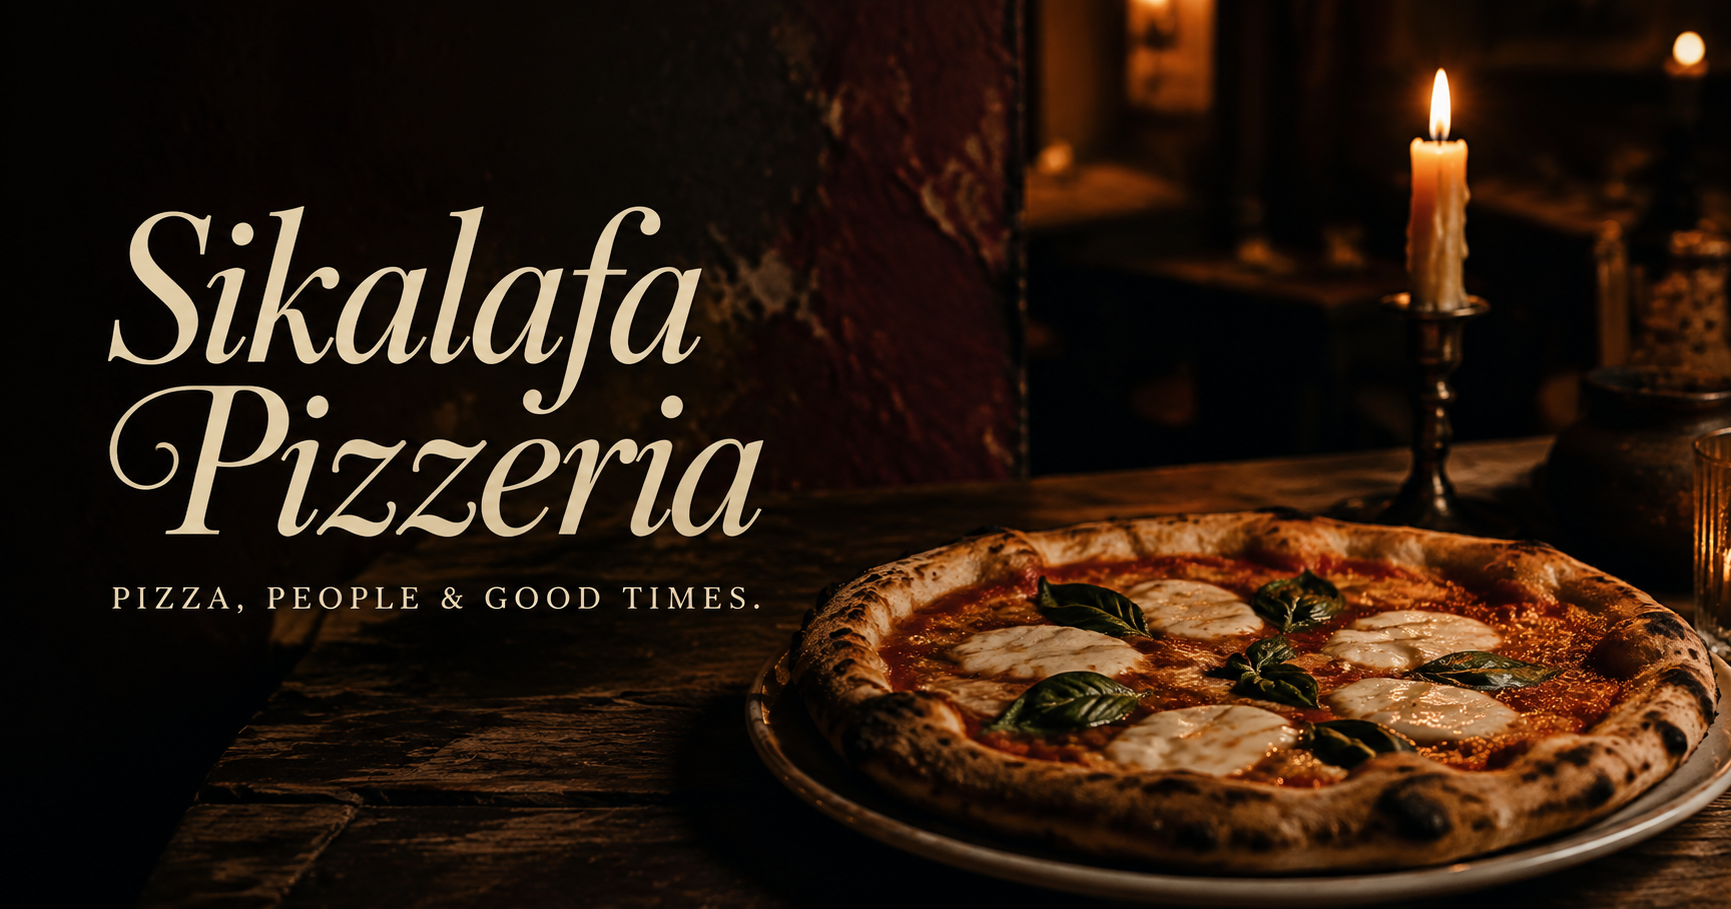
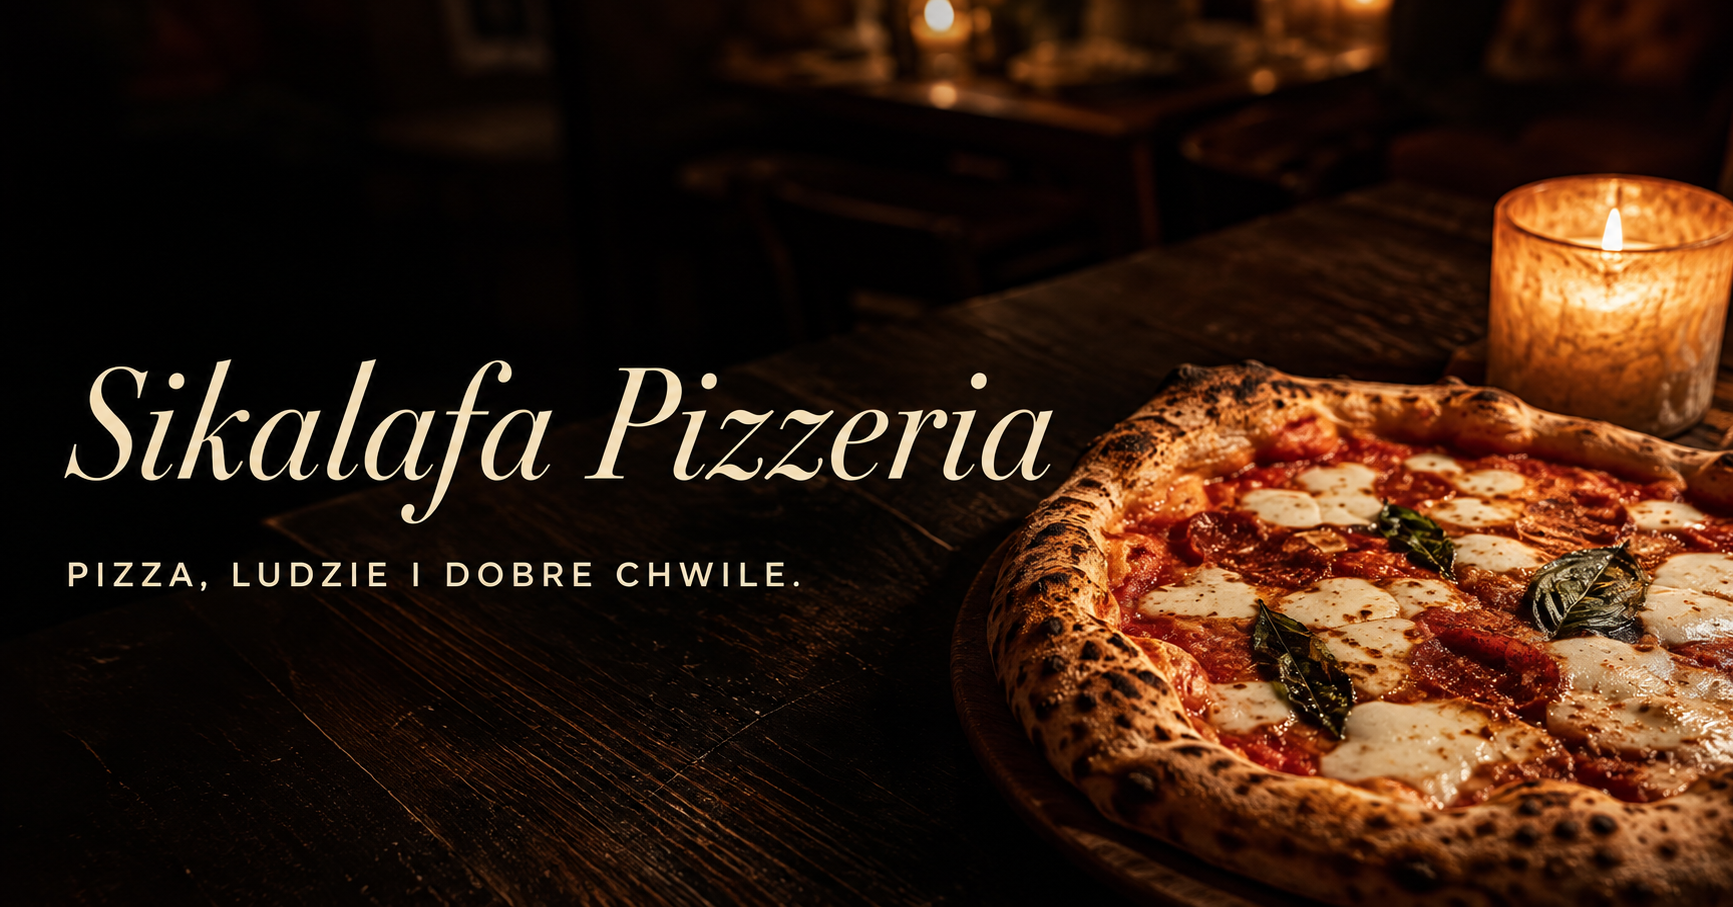
Translate Sikalafa site to Polish

diff --git a/app/page.tsx b/app/page.tsx
@@ -4,10 +4,10 @@ import { ImageReveal, Reveal } from '@/components/motion-primitives';
 import { SiteHeader } from '@/components/site-header';
 
 const pizzas = [
-  { name: 'Margherita Sikalafa', description: 'San Marzano tomato, fior di latte, basil, olive oil', price: '38' },
-  { name: 'Bosco', description: 'Fior di latte, mushrooms, artichoke, roasted pepper, rocket', price: '47' },
-  { name: 'Piccante', description: 'Tomato, spicy salami, nduja, red onion, honey', price: '49' },
-  { name: 'Bianca', description: 'Ricotta, fior di latte, potato, rosemary, pecorino', price: '46' },
+  { name: 'Margherita Sikalafa', description: 'Pomidory San Marzano, fior di latte, bazylia, oliwa', price: '38' },
+  { name: 'Bosco', description: 'Fior di latte, pieczarki, karczochy, pieczona papryka, rukola', price: '47' },
+  { name: 'Piccante', description: 'Pomidory, pikantne salami, nduja, czerwona cebula, miód', price: '49' },
+  { name: 'Bianca', description: 'Ricotta, fior di latte, ziemniaki, rozmaryn, pecorino', price: '46' },
 ];
 
 export default function Home() {
@@ -17,47 +17,47 @@ export default function Home() {
 
       <section className="hero" aria-labelledby="hero-title">
         <div className="hero-image">
-          <Image src="/sikalafa-hero.png" alt="Sikalafa pizzeria glowing warmly at night" fill priority sizes="100vw" />
+          <Image src="/sikalafa-hero.png" alt="Pizzeria Sikalafa rozświetlona ciepłym światłem nocą" fill priority sizes="100vw" />
         </div>
         <div className="hero-shade" />
         <div className="hero-copy">
-          <p className="eyebrow">Wrocław · pizza, wine &amp; good company</p>
-          <h1 id="hero-title">Come for pizza.<br /><em>Stay for a while.</em></h1>
-          <p className="hero-intro">A little house with a big heart — handmade pizza, candlelit tables and evenings that take their time.</p>
+          <p className="eyebrow">Wrocław · pizza, wino i dobre towarzystwo</p>
+          <h1 id="hero-title">Przyjdź na pizzę.<br /><em>Zostań na dłużej.</em></h1>
+          <p className="hero-intro">Mały lokal z wielkim sercem — ręcznie robiona pizza, stoliki w blasku świec i wieczory, którym się nie spieszy.</p>
           <div className="hero-actions">
-            <a className="text-link" href="#menu">See the menu <ArrowUpRight aria-hidden="true" /></a>
-            <a className="text-link" href="#reservations">Reserve a table <ArrowUpRight aria-hidden="true" /></a>
+            <a className="text-link" href="#menu">Zobacz menu <ArrowUpRight aria-hidden="true" /></a>
+            <a className="text-link" href="#reservations">Zarezerwuj stolik <ArrowUpRight aria-hidden="true" /></a>
           </div>
         </div>
-        <p className="hero-note" aria-hidden="true">No rush.<br />You&apos;re home.</p>
-        <a className="scroll-mark" href="#story" aria-label="Scroll to our story"><span>Scroll</span><i /><ArrowDown aria-hidden="true" /></a>
+        <p className="hero-note" aria-hidden="true">Bez pośpiechu.<br />Czuj się jak u siebie.</p>
+        <a className="scroll-mark" href="#story" aria-label="Przejdź do naszej historii"><span>Przewiń</span><i /><ArrowDown aria-hidden="true" /></a>
       </section>
 
       <section className="story section-shell" id="story">
         <Reveal className="story-heading">
-          <p className="section-kicker">01 · Our story</p>
-          <h2>It started with<br />a table <em>for friends.</em></h2>
+          <p className="section-kicker">01 · Nasza historia</p>
+          <h2>Zaczęło się od<br />stołu <em>dla przyjaciół.</em></h2>
         </Reveal>
         <Reveal className="story-copy">
-          <p className="lead-copy">Sikalafa was never meant to feel like a restaurant. It&apos;s a place to settle in, share a pizza and forget to check the time.</p>
-          <p>Everything here is personal: the dough we tend to each day, the records behind the bar, the plants finding their way across old shelves. The room grew slowly, one found chair and one story at a time.</p>
-          <p className="hand-note">Made by hand.<br />Best shared together.</p>
+          <p className="lead-copy">Sikalafa nigdy nie miała być zwykłą restauracją. To miejsce, w którym można usiąść wygodnie, dzielić się pizzą i zapomnieć o czasie.</p>
+          <p>Tu wszystko jest osobiste: ciasto, o które dbamy każdego dnia, płyty za barem i rośliny oplatające stare półki. Lokal powstawał powoli — jedno znalezione krzesło i jedna historia po drugiej.</p>
+          <p className="hand-note">Robione ręcznie.<br />Najlepiej smakuje razem.</p>
         </Reveal>
       </section>
 
       <section className="pizza-feature" id="pizza">
-        <ImageReveal src="/sikalafa-pizza.png" alt="Fresh Sikalafa pizza served with wine by candlelight" className="pizza-photo" position="63% center" />
+        <ImageReveal src="/sikalafa-pizza.png" alt="Świeża pizza Sikalafa podana z winem przy blasku świecy" className="pizza-photo" position="63% center" />
         <div className="pizza-panel">
           <Reveal>
-            <p className="section-kicker">02 · The pizza</p>
-            <h2>Simple things,<br /><em>done properly.</em></h2>
-            <p>Long-fermented dough. A blistered, airy crust. Thoughtful ingredients and combinations that change with the season.</p>
+            <p className="section-kicker">02 · Pizza</p>
+            <h2>Proste rzeczy,<br /><em>zrobione jak należy.</em></h2>
+            <p>Długo dojrzewające ciasto. Lekki, wyrośnięty rant. Starannie dobrane składniki i połączenia, które zmieniają się wraz z porami roku.</p>
             <dl className="pizza-facts">
-              <div><dt>48h</dt><dd>slow fermentation</dd></div>
-              <div><dt>450°</dt><dd>a very hot oven</dd></div>
-              <div><dt>100%</dt><dd>made by us</dd></div>
+              <div><dt>48h</dt><dd>powolnej fermentacji</dd></div>
+              <div><dt>450°</dt><dd>bardzo gorący piec</dd></div>
+              <div><dt>100%</dt><dd>robimy na miejscu</dd></div>
             </dl>
-            <a className="text-link dark-link" href="#menu">Explore our favourites <ArrowUpRight aria-hidden="true" /></a>
+            <a className="text-link dark-link" href="#menu">Poznaj nasze ulubione <ArrowUpRight aria-hidden="true" /></a>
           </Reveal>
         </div>
       </section>
@@ -65,20 +65,20 @@ export default function Home() {
       <section className="place" id="place">
         <div className="place-copy section-shell">
           <Reveal>
-            <p className="section-kicker">03 · The place</p>
-            <h2>A room with<br /><em>its own rhythm.</em></h2>
-            <p>Low lights, well-worn wood and music playing just loud enough. Every corner has something to discover, but the best part is always the people around your table.</p>
+            <p className="section-kicker">03 · Lokal</p>
+            <h2>Miejsce z<br /><em>własnym rytmem.</em></h2>
+            <p>Przygaszone światło, drewno z historią i muzyka grająca w sam raz. W każdym kącie można coś odkryć, ale najważniejsi są zawsze ludzie przy Twoim stole.</p>
           </Reveal>
         </div>
-        <ImageReveal src="/sikalafa-interior.png" alt="The warm, plant-filled interior of Sikalafa" className="place-photo" />
-        <p className="place-caption">Pull up a chair<br />and make it yours.</p>
+        <ImageReveal src="/sikalafa-interior.png" alt="Ciepłe, pełne roślin wnętrze Sikalafa" className="place-photo" />
+        <p className="place-caption">Przysuń krzesło.<br />Rozgość się.</p>
       </section>
 
       <section className="menu-section section-shell" id="menu">
         <Reveal className="menu-intro">
-          <p className="section-kicker">04 · A few favourites</p>
-          <h2>What&apos;s on<br /><em>the table.</em></h2>
-          <p>Our menu moves with the seasons and our mood. Here are a few pizzas we keep coming back to.</p>
+          <p className="section-kicker">04 · Kilka ulubionych</p>
+          <h2>Co dziś<br /><em>na stole.</em></h2>
+          <p>Nasze menu zmienia się razem z porami roku i naszym nastrojem. Oto kilka pizz, do których stale wracamy.</p>
         </Reveal>
         <div className="menu-list">
           {pizzas.map((pizza, index) => (
@@ -88,43 +88,43 @@ export default function Home() {
               <span className="menu-price">{pizza.price} zł</span>
             </Reveal>
           ))}
-          <p className="menu-note">Ask us about today&apos;s specials, natural wines and something sweet.</p>
+          <p className="menu-note">Zapytaj nas o dzisiejsze specjały, naturalne wina i coś słodkiego.</p>
         </div>
       </section>
 
       <section className="experience" id="experience">
-        <ImageReveal src="/sikalafa-evening.png" alt="A candlelit table set for an evening at Sikalafa" className="experience-photo" position="70% center" />
+        <ImageReveal src="/sikalafa-evening.png" alt="Stół w blasku świec przygotowany na wieczór w Sikalafa" className="experience-photo" position="70% center" />
         <div className="experience-shade" />
         <Reveal className="experience-copy">
-          <p className="section-kicker">05 · The evening</p>
-          <h2>Let the night<br /><em>take its time.</em></h2>
-          <p>Come hungry. Bring someone you like. We&apos;ll take care of the rest.</p>
-          <a className="text-link" href="#reservations">Find your table <ArrowUpRight aria-hidden="true" /></a>
+          <p className="section-kicker">05 · Wieczór</p>
+          <h2>Niech wieczór<br /><em>płynie swoim rytmem.</em></h2>
+          <p>Przyjdź głodny. Zabierz kogoś, kogo lubisz. Resztą zajmiemy się my.</p>
+          <a className="text-link" href="#reservations">Znajdź swój stolik <ArrowUpRight aria-hidden="true" /></a>
         </Reveal>
       </section>
 
       <section className="reservations section-shell" id="reservations">
         <Reveal className="reservation-heading">
-          <p className="section-kicker">Come by</p>
-          <h2>Your table<br /><em>is waiting.</em></h2>
+          <p className="section-kicker">Wpadnij do nas</p>
+          <h2>Twój stolik<br /><em>już czeka.</em></h2>
         </Reveal>
         <Reveal className="visit-details">
           <div className="visit-row">
             <MapPin aria-hidden="true" />
-            <div><span>Find us</span><p>Wrocław, Poland</p></div>
+            <div><span>Znajdziesz nas</span><p>Wrocław, Polska</p></div>
           </div>
           <div className="visit-row">
             <Clock3 aria-hidden="true" />
-            <div><span>Opening hours</span><p>Tuesday — Sunday<br />from 16:00 until late</p></div>
+            <div><span>Godziny otwarcia</span><p>Wtorek — niedziela<br />od 16:00 do późna</p></div>
           </div>
-          <a className="reservation-button" href="tel:+48532997669">Call to reserve <span>+48 532 997 669</span></a>
+          <a className="reservation-button" href="tel:+48532997669">Zadzwoń i zarezerwuj <span>+48 532 997 669</span></a>
         </Reveal>
       </section>
 
       <footer>
         <a className="footer-mark" href="#top">Sikalafa <span>Pizzeria</span></a>
-        <p>Pizza, people &amp; good times.</p>
-        <a href="#top" className="back-top">Back to top ↑</a>
+        <p>Pizza, ludzie i dobre chwile.</p>
+        <a href="#top" className="back-top">Wróć na górę ↑</a>
       </footer>
     </main>
   );

diff --git a/components/site-header.tsx b/components/site-header.tsx
@@ -5,11 +5,11 @@ import { AnimatePresence, motion } from 'framer-motion';
 import { Menu, X } from 'lucide-react';
 
 const navigation = [
-  ['Story', '#story'],
+  ['Historia', '#story'],
   ['Pizza', '#pizza'],
-  ['The place', '#place'],
+  ['Lokal', '#place'],
   ['Menu', '#menu'],
-  ['Experience', '#experience'],
+  ['Atmosfera', '#experience'],
 ];
 
 export function SiteHeader() {
@@ -27,23 +27,23 @@ export function SiteHeader() {
 
   return (
     <header className="site-header">
-      <a className="wordmark" href="#top" aria-label="Sikalafa home">
+      <a className="wordmark" href="#top" aria-label="Sikalafa — strona główna">
         Sikalafa <span>Pizzeria</span>
       </a>
-      <nav aria-label="Main navigation">
+      <nav aria-label="Główna nawigacja">
         {navigation.slice(0, 4).map(([label, href]) => <a key={href} href={href}>{label}</a>)}
       </nav>
-      <a className="header-cta" href="#reservations">Reservations</a>
-      <button className="menu-toggle" aria-label="Open navigation" aria-expanded={open} aria-controls="mobile-navigation" onClick={() => setOpen(true)}>
+      <a className="header-cta" href="#reservations">Rezerwacje</a>
+      <button className="menu-toggle" aria-label="Otwórz menu" aria-expanded={open} aria-controls="mobile-navigation" onClick={() => setOpen(true)}>
         <Menu aria-hidden="true" />
       </button>
 
       <AnimatePresence>
         {open && (
-          <motion.dialog id="mobile-navigation" className="mobile-nav" initial={{ opacity: 0 }} animate={{ opacity: 1 }} exit={{ opacity: 0 }} open aria-modal="true" aria-label="Mobile navigation">
-            <button className="mobile-nav-close" aria-label="Close navigation" onClick={() => setOpen(false)}><X aria-hidden="true" /></button>
+          <motion.dialog id="mobile-navigation" className="mobile-nav" initial={{ opacity: 0 }} animate={{ opacity: 1 }} exit={{ opacity: 0 }} open aria-modal="true" aria-label="Menu mobilne">
+            <button className="mobile-nav-close" aria-label="Zamknij menu" onClick={() => setOpen(false)}><X aria-hidden="true" /></button>
             <div className="mobile-nav-mark">Sikalafa <span>Pizzeria</span></div>
-            <nav aria-label="Mobile navigation">
+            <nav aria-label="Nawigacja mobilna">
               {navigation.map(([label, href], index) => (
                 <motion.a
                   key={href}
@@ -55,7 +55,7 @@ export function SiteHeader() {
                 >{label}</motion.a>
               ))}
             </nav>
-            <a className="mobile-reserve" href="#reservations" onClick={() => setOpen(false)}>Reserve a table</a>
+            <a className="mobile-reserve" href="#reservations" onClick={() => setOpen(false)}>Zarezerwuj stolik</a>
           </motion.dialog>
         )}
       </AnimatePresence>

diff --git a/app/layout.tsx b/app/layout.tsx
@@ -3,24 +3,25 @@ import './globals.css';
 
 export const metadata: Metadata = {
   metadataBase: new URL('https://sikalafa-pizzeria.light-fir-8078.chatgpt.site'),
-  title: 'Sikalafa Pizzeria | Pizza, People & Good Times',
-  description: 'A warm, soulful pizzeria in Wrocław. Handmade pizza, intimate evenings and good company.',
+  title: 'Sikalafa Pizzeria | Pizza, ludzie i dobre chwile',
+  description: 'Kameralna pizzeria z duszą we Wrocławiu. Ręcznie robiona pizza, ciepłe wieczory i dobre towarzystwo.',
   openGraph: {
     title: 'Sikalafa Pizzeria',
-    description: 'Pizza, people & good times.',
-    images: [{ url: '/og.png', width: 1733, height: 909, alt: 'Sikalafa Pizzeria — Pizza, people & good times.' }],
+    description: 'Pizza, ludzie i dobre chwile.',
+    locale: 'pl_PL',
+    images: [{ url: '/og.png', width: 1733, height: 909, alt: 'Sikalafa Pizzeria — pizza, ludzie i dobre chwile.' }],
   },
   twitter: {
     card: 'summary_large_image',
     title: 'Sikalafa Pizzeria',
-    description: 'Pizza, people & good times.',
+    description: 'Pizza, ludzie i dobre chwile.',
     images: ['/og.png'],
   },
 };
 
 export default function RootLayout({ children }: Readonly<{ children: React.ReactNode }>) {
   return (
-    <html lang="en">
+    <html lang="pl">
       <body>{children}</body>
     </html>
   );
